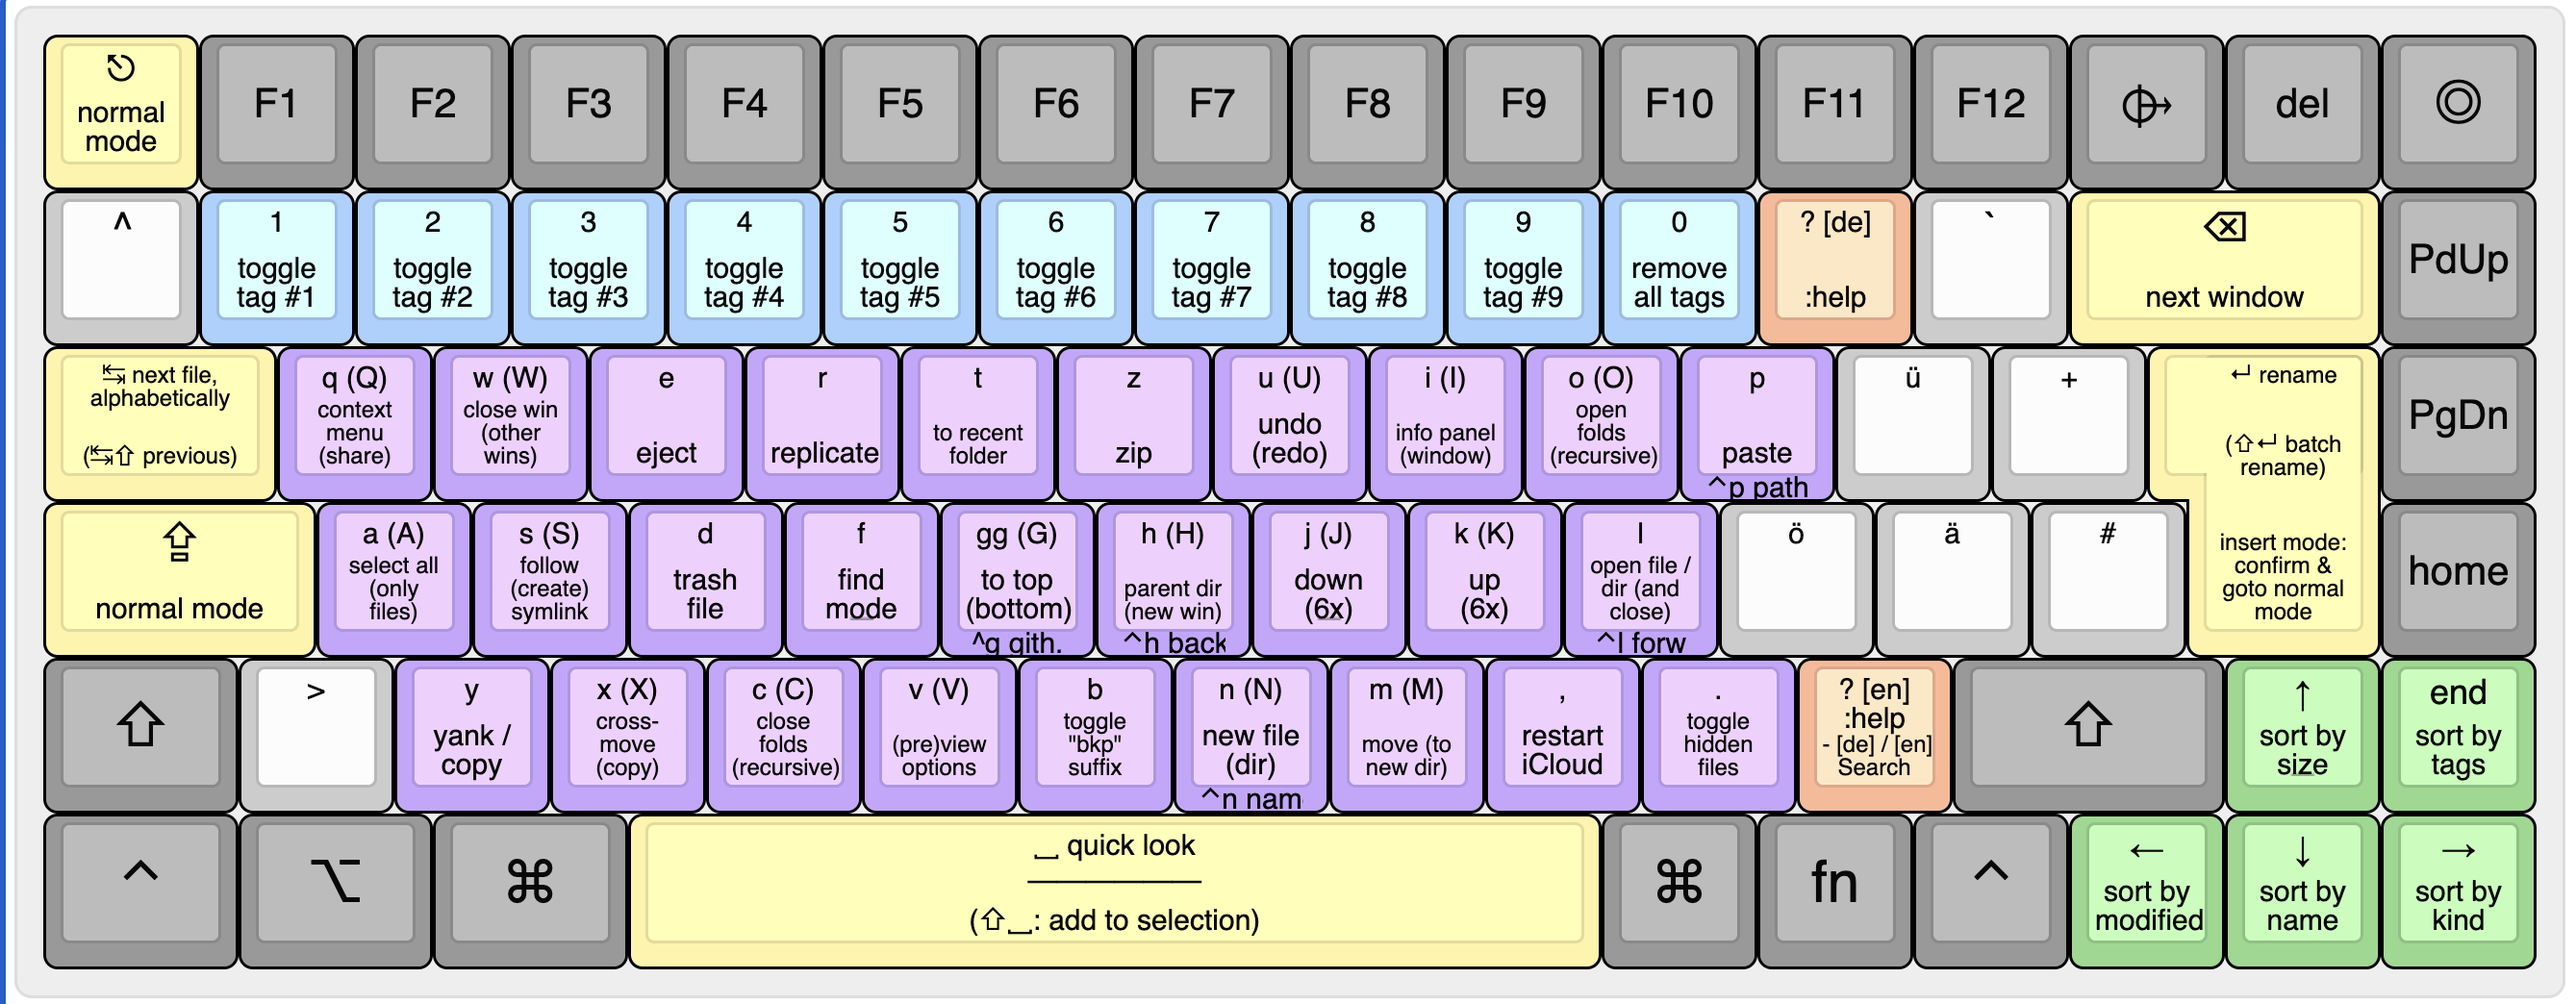
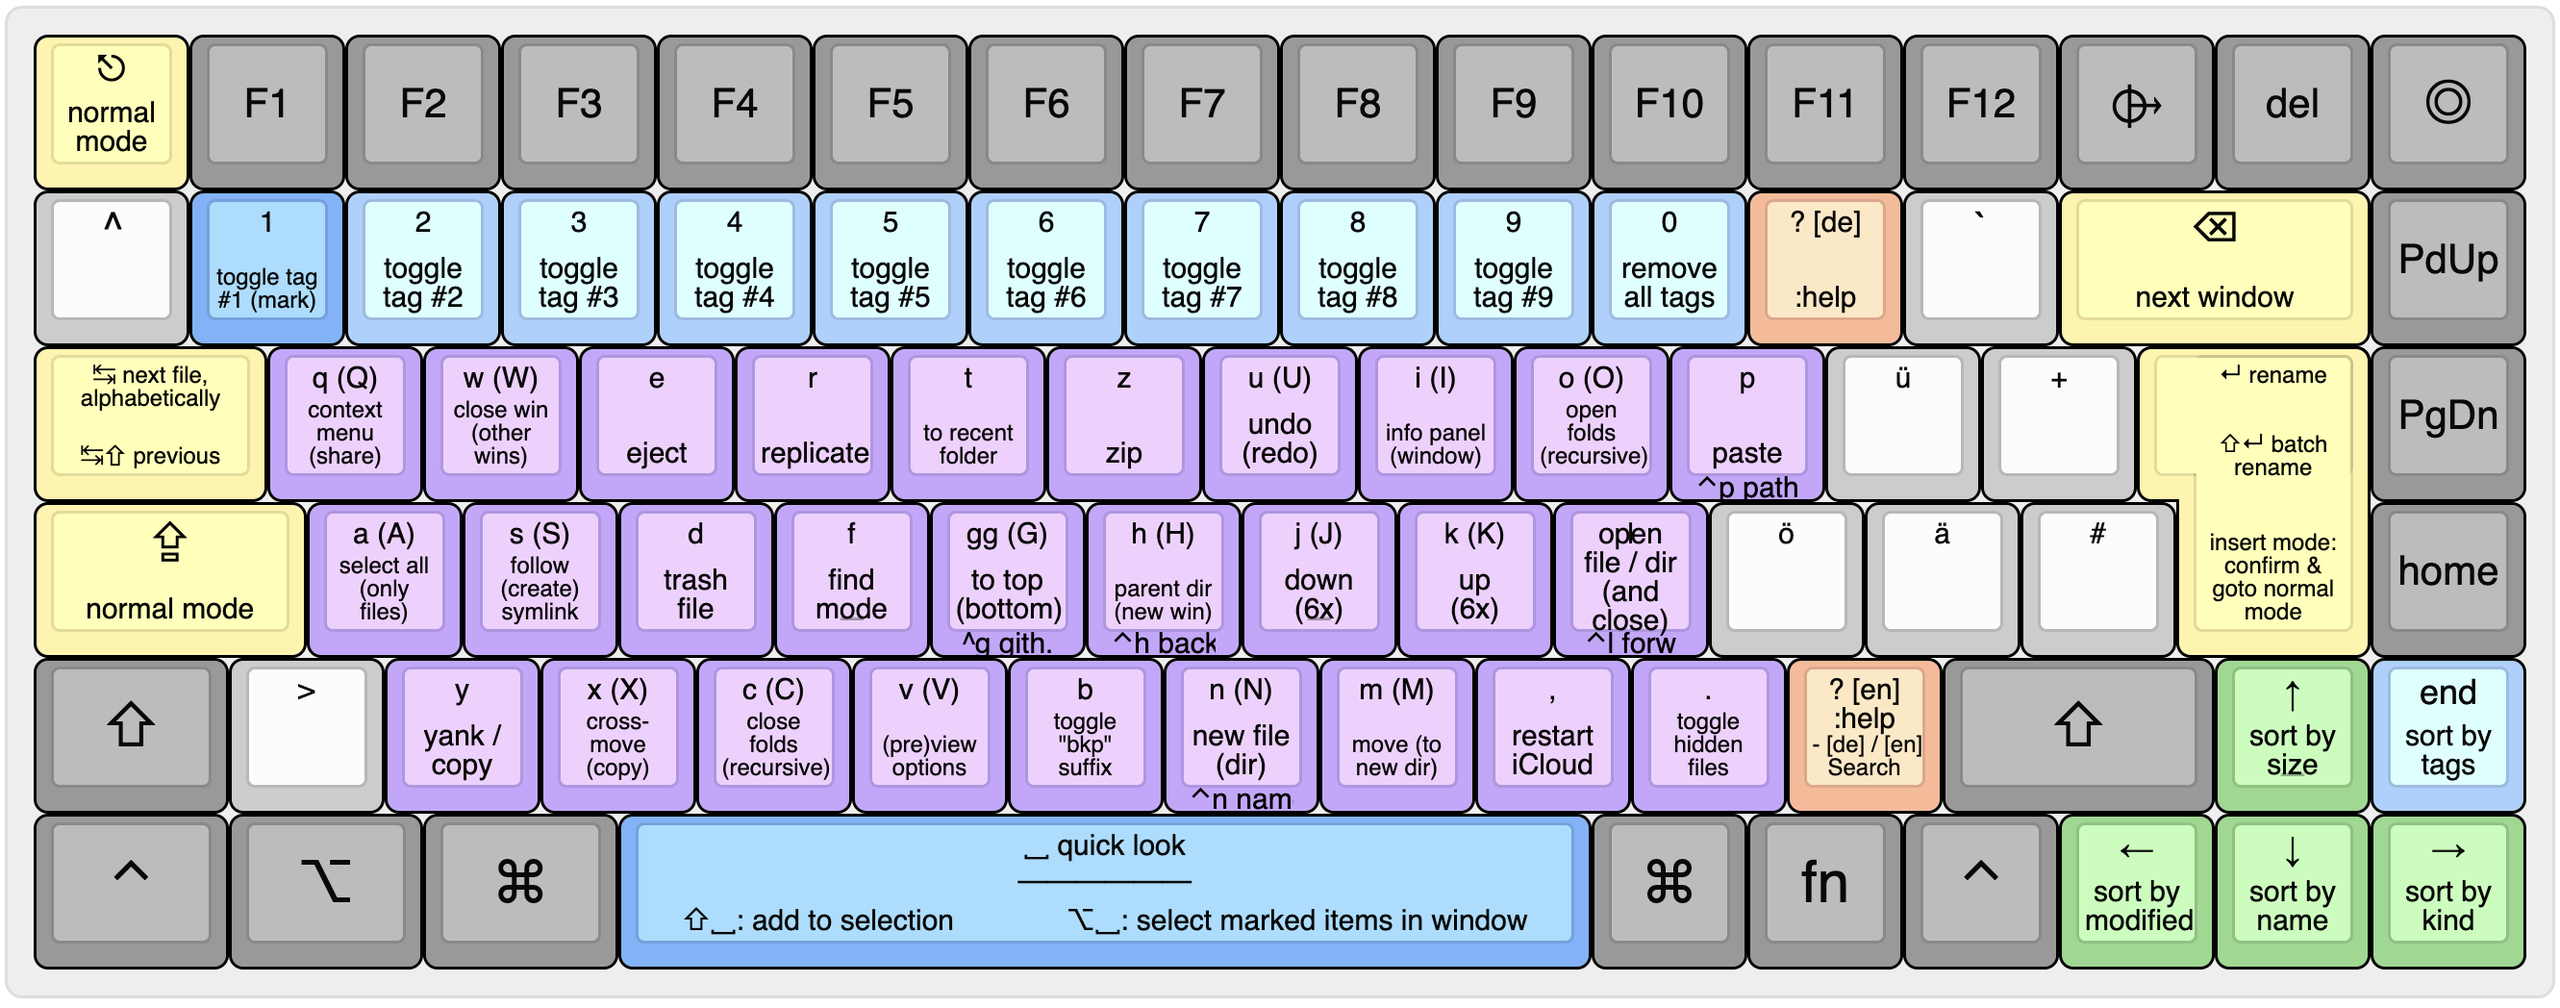
feat: non-continous multi-select (see README)

Changed region(s): [[0.0, 0.0, 1.0, 1.0], [0.7171, 0.0307, 0.7483, 0.0613]]

diff --git a/README.md b/README.md
@@ -1,5 +1,5 @@
 # Vim Mode for Finder
-Feature-rich mouseless control of macOS Finder, inspired by vim/ranger. 
+Feature-rich control of macOS Finder without the mouse, inspired by vim and ranger. 
 
 ![](https://img.shields.io/github/last-commit/chrisgrieser/finder-vim-mode?style=plastic)
 
@@ -18,9 +18,9 @@ Feature-rich mouseless control of macOS Finder, inspired by vim/ranger.
 - [Installation](#installation)
 - [Updates](#updates)
 - [Caveats](#caveats)
+- [Alfred and Raycast users](#alfred-and-raycast-users)
 - [Why not use a Terminal file manager?](#why-not-use-a-terminal-file-manager)
 - [Build](#build)
-- [Alfred and Raycast users](#alfred-and-raycast-users)
 - [Credits](#credits)
 <!--toc:end-->
 
@@ -34,7 +34,8 @@ Feature-rich mouseless control of macOS Finder, inspired by vim/ranger.
 - __Toggle `-bkp` suffix__: Add suffix `-bkp` to the file. If it already has such a suffix, remove it. Useful for debugging as well.
 - __`Tab`__ goes to the next file in alphabetical order, *even when the view is not sorted alphabetically.* (This is actually a built-in feature of Finder, but probably worth pointing out since barely anyone knows about it.)
 - __Open in GitHub__: If the file is in a git repo, `Ctrl+g` opens the file at GitHub and also copies the URL to the clipboard.
-- __Batch Rename__: (experimental) Rename with JavaScript-flavored Regex support.
+- __Batch Rename__ *(experimental)*: Rename with JavaScript-flavored Regex.
+- __Marks & Multi-select__ *(experimental)*: Press `1` to (un)mark the current selection. Use `alt+space` to select all marked files in the current window. With this method you can make non-continious selections without the mouse.
 
 ## Installation
 1. Run this in your terminal:
@@ -49,7 +50,8 @@ Feature-rich mouseless control of macOS Finder, inspired by vim/ranger.
 
 2. Activate the plugin: `Import` → `Enable`
 3. __Karabiner users:__ If you already use Karabiner and have another modification affecting the `Capslock` key that modification must come *after* the __Finder Vim Mode__ in the list of modifications.
-4. __Alfred and Raycast users:__ [Some additional setup may be needed.](#alfred-and-raycast-users).
+4. __Alfred and Raycast users:__ [Some additional setup may be needed.](#alfred-and-raycast-users)
+5. Open Finder, go the settings, create a tag named `vim-mark`, and move it to the *first* position in the list of tags. (This plugin basically re-purposes Finder's tag system to be used (local) marks.)
 
 ## Updates
 Unfortunately, Karabiner has no mechanism for auto-updating plugins. Therefore, you have to install updates manually by re-running the code above. You can check for the last commit date to see whether there has been an update:
@@ -67,15 +69,20 @@ file, mistakenly puts you in Insert Mode. (Unfortunately, Karabiner is not able 
 - The plugin has been tested with the standard US and German keyboard layout. It should mostly also work for other layouts.
 - Sometimes, usage of English as System UI language may solve an issue. (`System Settings → General → Language & Region → Preferred Languages`)
 
+## Alfred and Raycast users
+Finder-Vim-Mode factors in the usage of Spotlight, Alfred, or Raycast via `cmd+space`. However, if you use another key combination, for example for Alfred's clipboard history or Universal Action, you have to use one of the following methods:
+
+1. Permanently disable Finder-Vim-Mode for the respective Alfred or Raycast Commands by downloading the [Finder-Vim-Alfred-Addon](./addons/finder-vim-alfred-addon.json) and customizing its keys. The `from` and `to` keys need to be the same (except for the extra intermediary `mandatory`).
+2. (Recommended) In [Alfred's Appearance Options](https://www.alfredapp.com/help/appearance/#options), set the `Focusing` behavior to `Compatibility Mode`. Note that this can affect triggers of the kind "if X is the frontmost app, then…" used by certain macOS automation apps.
+
 ## Why not use a Terminal file manager?
 Other than a nicer appearance, a GUI does have a few advantages:
 - Many apps have some way sort of `Reveal current file in Finder` feature, which is quite handy but does not work with a TUI file manager.
 - With a GUI, you get a separate app in various places like the dock, the built-in app switcher `cmd+tab`, or other app switchers (for example, `rcmd`). With a TUI, you'd have to switch to your Terminal, and then switch to your file manager, requiring basically an extra step.
 - Image and file content previews as icons are not available with a TUI-file manager.
 - Finder actually has many hidden features, which this plugin is utilizing.
-- A GUI allows you to have multiple windows open and work with them (for example, the `x` command in this plugin), while you cannot easily move files between two terminal windows.
 - A bunch of automation apps for macOS work with "if app x is frontmost" conditions. With a TUI, those apps only see that your terminal is frontmost, but are mostly not able to tell what TUI is running inside the terminal.
-- Cloud services (iCloud, Google Drive, Dropbox, etc.) indicate the file sync status of a file in Finder.
+- Cloud services (iCloud, Google Drive, Dropbox, etc.) are well-integrated with Finder.
 
 ## Build
 Karabiner plugins are essentially hotkey configurations in form of a JSON file. Since the amount of configurations for this plugin is rather large, the resulting JSON file has more than 6000 lines. To make that manageable, this plugin is written in YAML, where features such as anchors and aliases [anchors and aliases](https://www.linode.com/docs/guides/yaml-anchors-aliases-overrides-extensions/) reduces the lines of code to only ~1000 lines.
@@ -85,12 +92,6 @@ If you want to fork this plugin, it is recommended to work with the YAML file an
 ```bash
 yq -o=json 'explode(.)' finder-vim.yaml > finder-vim.json
 ```
-
-## Alfred and Raycast users
-Finder-Vim-Mode factors in the usage of Spotlight, Alfred, or Raycast via `cmd+space`. However, if you use another key combination, for example for Alfred's clipboard history or Universal Action, you have to use one of the following methods:
-
-1. Permanently disable Finder-Vim-Mode for the respective Alfred or Raycast Commands by downloading the [Finder-Vim-Alfred-Addon](./addons/finder-vim-alfred-addon.json) and customizing its keys. The `from` and `to` keys need to be the same (except for the extra intermediary `mandatory`).
-2. (Recommended) In [Alfred's Appearance Options](https://www.alfredapp.com/help/appearance/#options), set the `Focusing` behavior to `Compatibility Mode`. Note that this can affect triggers of the kind "if X is the frontmost app, then…" used by certain macOS automation apps.
 
 ## Credits
 - The cheatsheet has been created with <http://www.keyboard-layout-editor.com/>.
